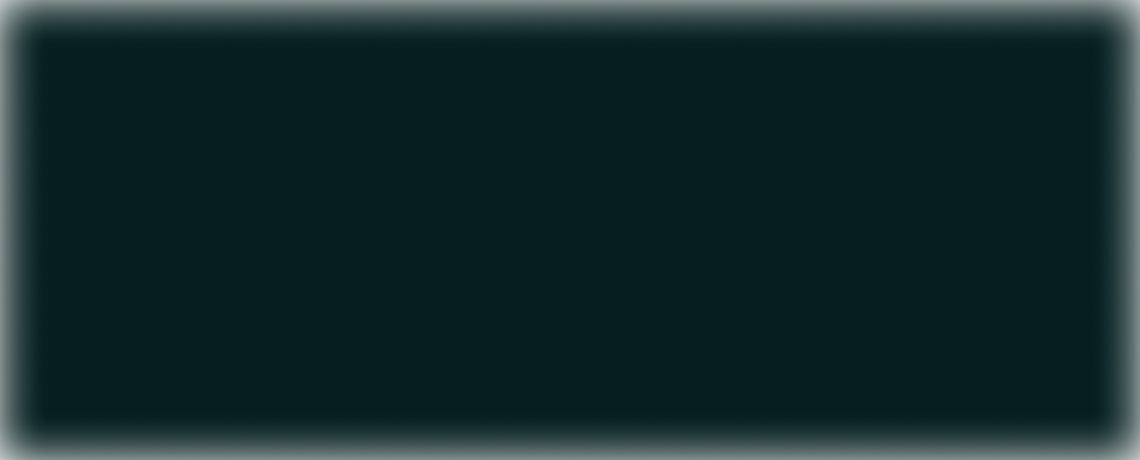
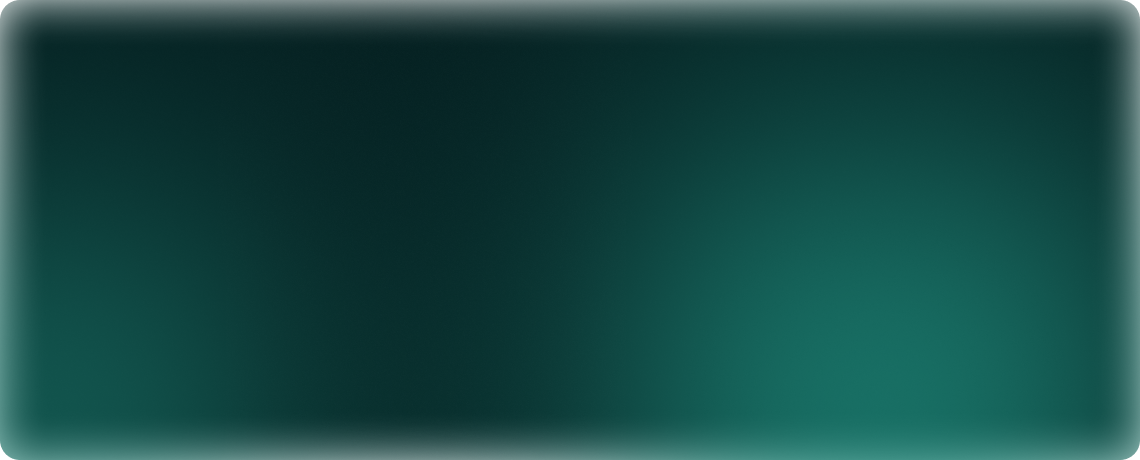
feat: Updates

diff --git a/app/components/Home/FinalCTA.tsx b/app/components/Home/FinalCTA.tsx
@@ -10,30 +10,27 @@ import ActionButton from '@/app/components/shared/ActionButton'
 export default function FinalCTA() {
   return (
     <section className="relative w-full py-20 px-6 overflow-hidden">
-      {/* BACKGROUND IMAGE LAYER */}
-      <div className="absolute inset-0 z-0">
-        <Image
-          src={SectionBG}
-          alt="Background Pattern"
-          fill
-          className="object-cover opacity-40"
-        />
-        {/* Subtle animated overlay glow */}
-        <motion.div
-          animate={{ opacity: [0.2, 0.4, 0.2] }}
-          transition={{ duration: 8, repeat: Infinity }}
-          className="absolute inset-0 bg-primary/5"
-        />
-      </div>
-
       <div className="relative z-10 max-w-6xl mx-auto">
+        <div className="absolute inset-0 z-0">
+          <Image
+            src={SectionBG}
+            alt="Background Pattern"
+            fill
+            className="object-fill"
+          />
+          <motion.div
+            animate={{ opacity: [0.2, 0.4, 0.2] }}
+            transition={{ duration: 8, repeat: Infinity }}
+            className="absolute inset-0 bg-primary/5"
+          />
+        </div>
         {/* Main CTA Card */}
         <motion.div
           initial={{ opacity: 0, scale: 0.95 }}
           whileInView={{ opacity: 1, scale: 1 }}
           viewport={{ once: true }}
           transition={{ duration: 0.8, ease: 'easeOut' as const }}
-          className="bg-[#051F20] rounded-[40px] border border-white/5 overflow-hidden flex flex-col md:flex-row items-center justify-between p-4 md:p-8 md:px-20 relative min-h-112"
+          className="w-full rounded-[40px] overflow-hidden flex flex-col md:flex-row items-center justify-between p-4 md:p-8 md:px-20 relative min-h-112"
         >
           {/* Left Content */}
           <motion.div
@@ -41,11 +38,10 @@ export default function FinalCTA() {
             whileInView={{ opacity: 1, x: 0 }}
             viewport={{ once: true }}
             transition={{ delay: 0.3, duration: 0.6 }}
-            className="flex flex-col z-20 max-w-xl text-center md:text-left mb-10 md:mb-0"
+            className="flex flex-col z-20 w-full max-w-xl text-center md:text-left mb-10 md:mb-0"
           >
-            <h2 className="text-2xl md:text-4xl font-poppins text-white mb-5 leading-tight">
-              Are you ready to <br className="hidden md:block" /> start the
-              Journey?
+            <h2 className="text-2xl md:text-4xl font-poppins text-white mb-2 leading-tight">
+              Are you ready to start the Journey?
             </h2>
             <SectionDescription>
               Personalize your settings, follow your progress, archive your
